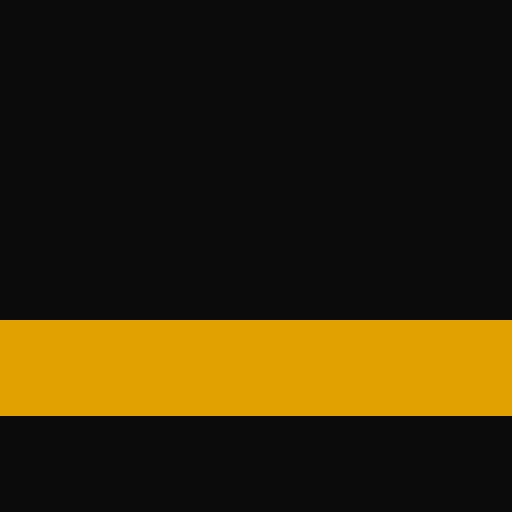
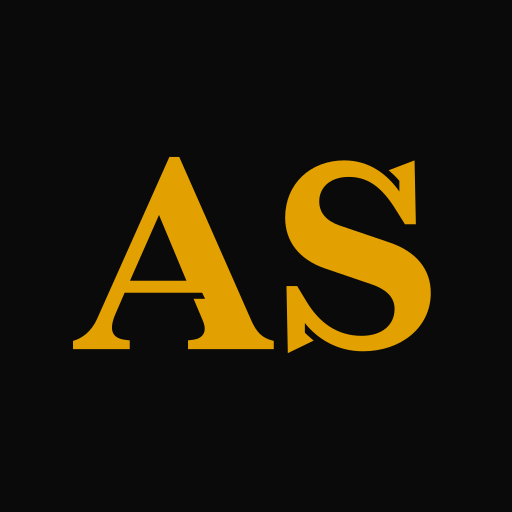
Serve www, and claim the Bluesky handle in the identity links (#4)
* Serve www, and add the Bluesky profile to the identity links

www.amsozzer.com is a second custom domain on the Worker, so it answers
instead of timing out; canonical tags still point at the bare domain.

The Bluesky domain handle resolves now, so the profile joins sameAs, the
rel="me" links and the footer.

* Ship a 48px favicon and put the site node on every page

Google renders favicons at 48px and ours was 32; the file now carries 16,
32 and 48. Sub-pages only referenced the WebSite node by id, so a crawler
landing on one had nothing naming the site; every page now includes it.

* Draw the favicon as an AS monogram

The letters come from Redaction Bold, converted to outlines by
scripts/build-monogram.py so the icon needs no font at render time.

---------

Changed region(s): [[0.0, 0.3125, 1.0, 0.8125]]

diff --git a/scripts/build-icons.ts b/scripts/build-icons.ts
@@ -11,18 +11,29 @@ const png = (size: number) =>
     .png()
     .toBuffer();
 
-// An ICO file is a 6-byte header plus one 16-byte directory entry per image; modern ICO allows the image itself to be a PNG.
-const ico = (image: Buffer, size: number) => {
-  const header = Buffer.alloc(22);
+// An ICO file is a 6-byte header plus one 16-byte directory entry per image; modern ICO allows each image to be a PNG.
+// Google renders favicons at 48px, so the file carries 16, 32 and 48 and lets each client pick.
+const ico = (images: { size: number; data: Buffer }[]) => {
+  const header = Buffer.alloc(6);
   header.writeUInt16LE(1, 2);
-  header.writeUInt16LE(1, 4);
-  header.writeUInt8(size, 6);
-  header.writeUInt8(size, 7);
-  header.writeUInt16LE(1, 10);
-  header.writeUInt16LE(32, 12);
-  header.writeUInt32LE(image.length, 14);
-  header.writeUInt32LE(header.length, 18);
-  return Buffer.concat([header, image]);
+  header.writeUInt16LE(images.length, 4);
+
+  let offset = header.length + images.length * 16;
+  const entries: Buffer[] = [];
+
+  for (const { size, data } of images) {
+    const entry = Buffer.alloc(16);
+    entry.writeUInt8(size === 256 ? 0 : size, 0);
+    entry.writeUInt8(size === 256 ? 0 : size, 1);
+    entry.writeUInt16LE(1, 4);
+    entry.writeUInt16LE(32, 6);
+    entry.writeUInt32LE(data.length, 8);
+    entry.writeUInt32LE(offset, 12);
+    entries.push(entry);
+    offset += data.length;
+  }
+
+  return Buffer.concat([header, ...entries, ...images.map(image => image.data)]);
 };
 
 const outputs: [string, number][] = [
@@ -35,4 +46,9 @@ for (const [file, size] of outputs) {
   writeFileSync(new URL(file, publicDir), await png(size));
 }
 
-writeFileSync(new URL('favicon.ico', publicDir), ico(await png(32), 32));
+const faviconSizes = [16, 32, 48];
+const faviconImages = await Promise.all(
+  faviconSizes.map(async size => ({ size, data: await png(size) })),
+);
+
+writeFileSync(new URL('favicon.ico', publicDir), ico(faviconImages));

diff --git a/src/lib/seo/graph.ts b/src/lib/seo/graph.ts
@@ -75,7 +75,13 @@ export const person = (withWorkHistory = false): Person => ({
   worksFor: organization(site.employer.name),
   alumniOf: school,
   knowsAbout: site.knowsAbout,
-  sameAs: [site.links.github, site.links.linkedin, site.links.orcid, site.links.devto],
+  sameAs: [
+    site.links.github,
+    site.links.linkedin,
+    site.links.orcid,
+    site.links.devto,
+    site.links.bluesky,
+  ],
   identifier: { '@type': 'PropertyValue', propertyID: 'ORCID', value: site.orcid },
   ...(withWorkHistory && workHistory()),
 });
@@ -174,7 +180,10 @@ export const buildGraph = (seo: PageSeo): Graph => {
     '@context': 'https://schema.org',
     '@graph': [
       person(seo.path === '/experience'),
-      ...(isHome ? [website()] : [breadcrumbList(seo)]),
+      // The site node rides on every page: each one is crawled on its own, and the
+      // WebPage nodes point at it with isPartOf.
+      website(),
+      ...(isHome ? [] : [breadcrumbList(seo)]),
       webPage(seo),
       ...(project ? [softwareSourceCode(project)] : []),
       ...(seo.graph ?? []),

diff --git a/src/data/site.ts b/src/data/site.ts
@@ -33,9 +33,9 @@ export const site = {
     linkedin: 'https://www.linkedin.com/in/amsozzer1',
     orcid: 'https://orcid.org/0009-0005-3599-6156',
     devto: 'https://dev.to/amsozzer',
+    bluesky: 'https://bsky.app/profile/amsozzer.com',
     call: 'https://cal.com/amsozzer',
   },
-  // @TODO: add the Bluesky profile (@amsozzer.com) to links once the handle is claimed
   orcid: '0009-0005-3599-6156',
   language: 'en',
   locale: 'en_US',

diff --git a/scripts/build-monogram.py b/scripts/build-monogram.py
@@ -1,0 +1,60 @@
+"""Draw the AS monogram in public/icon.svg, with the letters as outlines from Redaction Bold.
+
+Outlines rather than <text> so the icon renders identically everywhere, with no font to load.
+Run with: pipx run --spec 'fonttools[woff]' python scripts/build-monogram.py
+"""
+
+from pathlib import Path
+
+from fontTools.pens.svgPathPen import SVGPathPen
+from fontTools.ttLib import TTFont
+
+ROOT = Path(__file__).resolve().parent.parent
+FONT = ROOT / "fonts" / "masters" / "Redaction-Bold.otf"
+OUT = ROOT / "public" / "icon.svg"
+
+BOX = 32  # viewBox, in the same units as the rest of the icon set
+INK = "#0A0A0A"
+AMBER = "#E2A100"
+TRACKING = -0.012  # em, matching the display tracking in the tokens
+
+
+def main() -> None:
+    font = TTFont(FONT)
+    glyphs = font.getGlyphSet()
+    upem = font["head"].unitsPerEm
+    cmap = font.getBestCmap()
+
+    paths, advance = [], 0.0
+    for letter in "AS":
+        name = cmap[ord(letter)]
+        pen = SVGPathPen(glyphs)
+        glyphs[name].draw(pen)
+        paths.append((pen.getCommands(), advance))
+        advance += glyphs[name].width + TRACKING * upem
+
+    ascent, descent = font["hhea"].ascent, font["hhea"].descent
+    cap = font["OS/2"].sCapHeight
+
+    # Fit the pair to the box with a small margin, then centre it on both axes.
+    margin = BOX * 0.14
+    scale = min((BOX - 2 * margin) / advance, (BOX - 2 * margin) / cap)
+    x = (BOX - advance * scale) / 2
+    y = (BOX + cap * scale) / 2
+
+    letters = "".join(
+        f'<path d="{d}" transform="translate({x + offset * scale:.3f} {y:.3f}) '
+        f'scale({scale:.5f} {-scale:.5f})"/>'
+        for d, offset in paths
+    )
+
+    OUT.write_text(
+        f'<svg xmlns="http://www.w3.org/2000/svg" viewBox="0 0 {BOX} {BOX}">'
+        f'<rect width="{BOX}" height="{BOX}" fill="{INK}"/>'
+        f'<g fill="{AMBER}">{letters}</g>'
+        f"</svg>\n"
+    )
+    print(f"wrote {OUT.relative_to(ROOT)} (ascent {ascent}, descent {descent}, cap {cap})")
+
+
+main()
